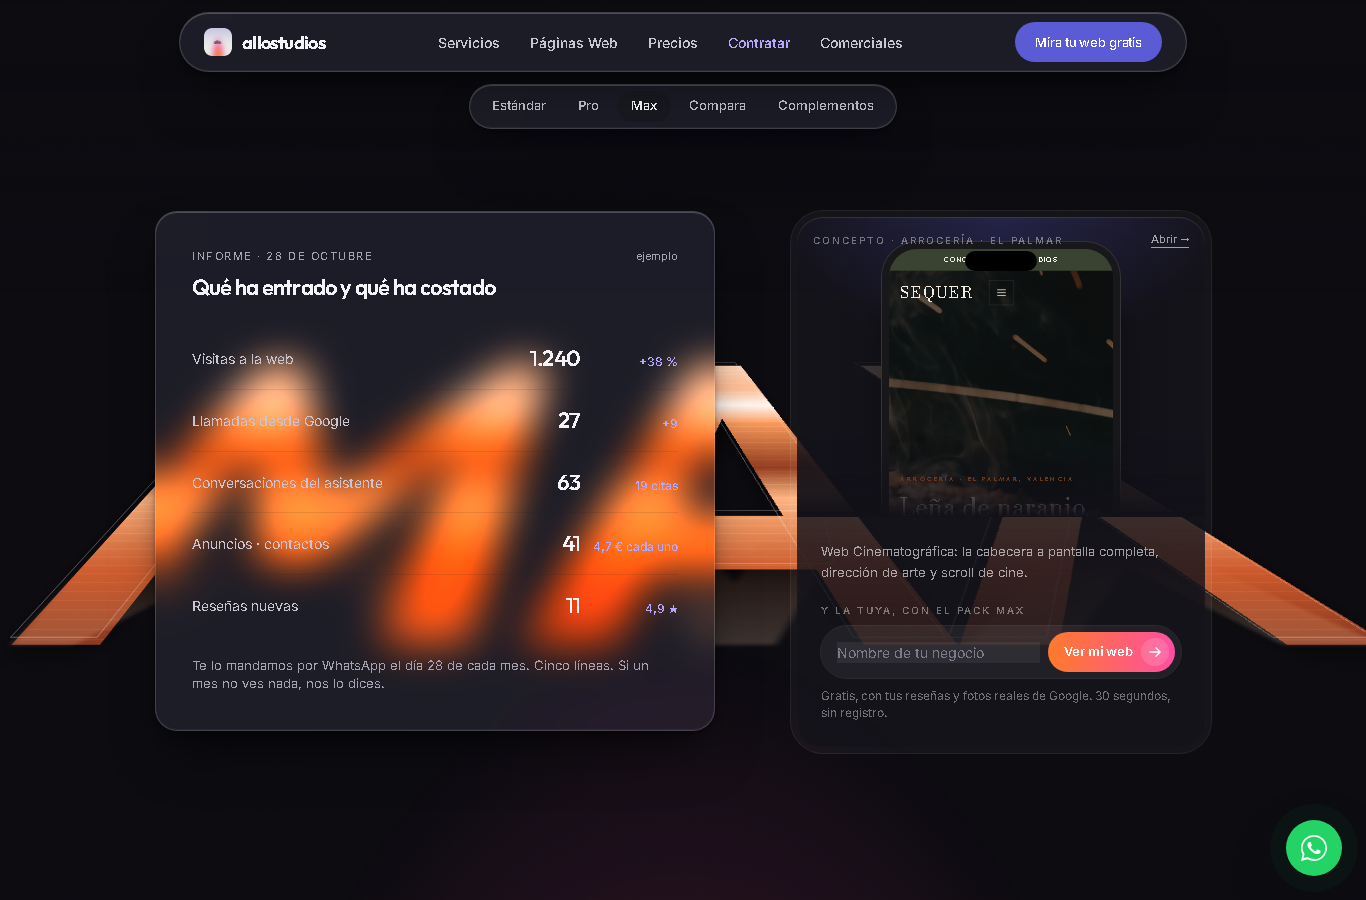
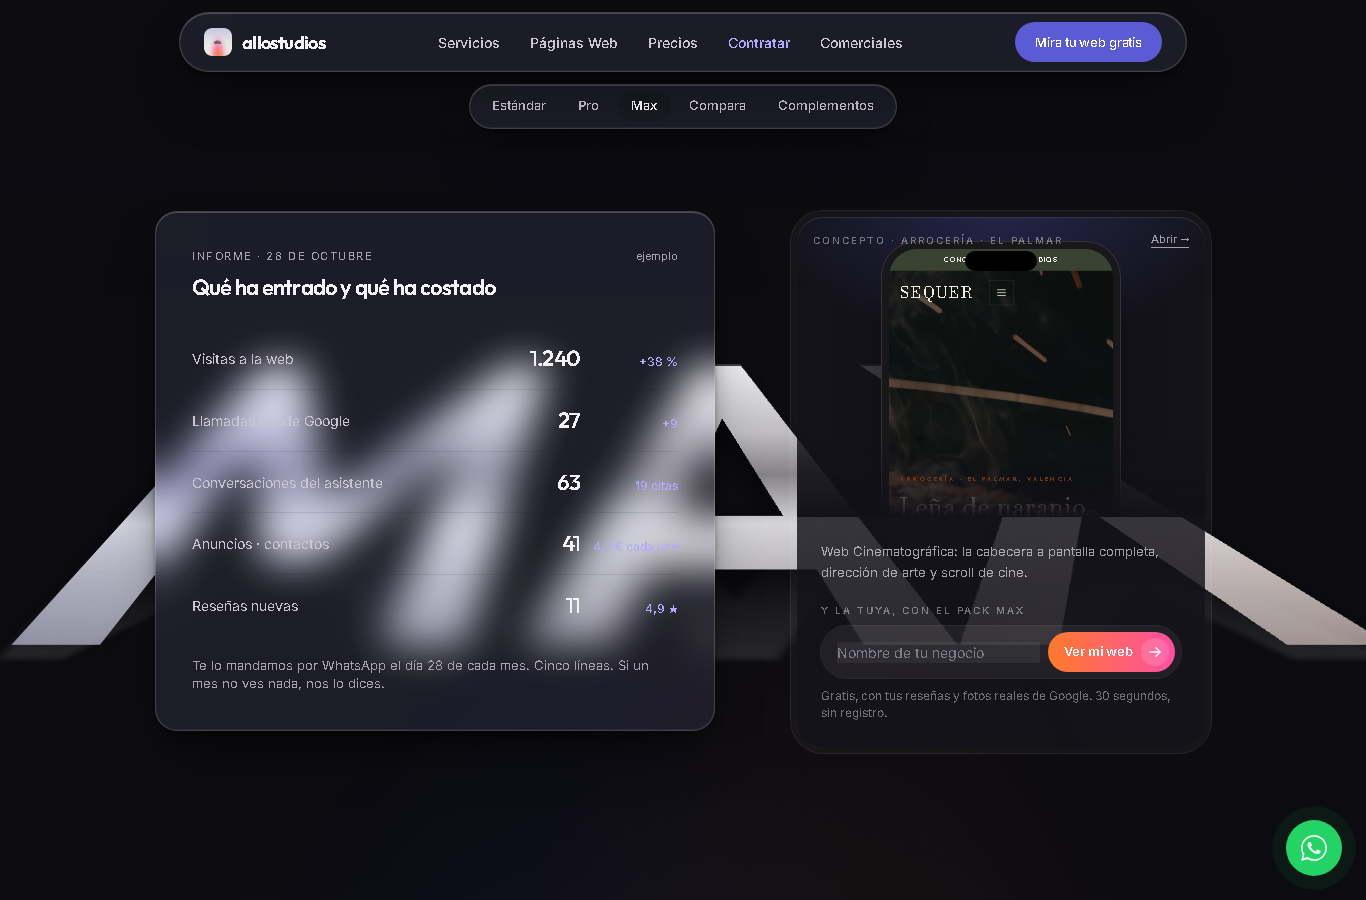
MAX en titanio pulido (diseño Apple): monocromo, arista de luz, brillo lento, reflejo de la marca en la superficie y en el suelo; misma animación título → experiencia

Changed region(s): [[0.0, 0.3733, 0.5842, 0.7467], [0.8609, 0.5911, 1.0, 0.7467], [0.5227, 0.7156, 0.5842, 0.7467]]

diff --git a/apps/web/src/components/home2/Fondos.tsx b/apps/web/src/components/home2/Fondos.tsx
@@ -66,33 +66,34 @@ export function FondoMax({ progreso, palabra }: { progreso: MotionValue<number>;
   const giro = useTransform(progreso, [0.14, 0.24, 0.5], [0, 55, 4])
   const y = useTransform(progreso, [0.06, 0.16, 0.5, 0.95], ['0%', '0%', '-14%', '-24%'])
   const opacidad = useTransform(progreso, [0, 0.04, 0.3, 0.4, 1], [0, 1, 1, 0.22, 0.16])
-  const barridoY = useTransform(progreso, [0.16, 0.6], ['-10%', '110%'])
   const brillo = useTransform(progreso, [0.16, 0.9], ['120%', '-20%'])
-  const metal = {
-    background: 'linear-gradient(180deg, #FFF1E6 0%, #FFCFAE 18%, #FF9A5C 36%, #8E3A1F 50%, #FFB07A 58%, #C9542A 74%, #3A1610 100%)',
+  // Diseño «Apple»: titanio pulido, monocromo, con la luz de la marca solo como reflejo ambiental.
+  // Nada de cromo naranja ni líneas técnicas: superficie limpia, un brillo que la recorre y un reflejo suave.
+  const titanio = {
+    background: 'linear-gradient(180deg, #FFFFFF 0%, #E9E9EC 18%, #B9B9BF 40%, #7C7C83 52%, #D2D2D7 64%, #9A9AA1 82%, #4E4E55 100%)',
     WebkitBackgroundClip: 'text', color: 'transparent',
   } as const
   return (
-    <div className="absolute inset-0 pointer-events-none overflow-clip" aria-hidden style={{ background: 'radial-gradient(120% 70% at 50% 100%, #2a0f0a 0%, #120b0e 55%, #0b0b10 100%)' }}>
-      {/* luz volumétrica de fondo */}
-      <motion.div animate={{ opacity: [0.45, 0.8, 0.45] }} transition={{ duration: 7, repeat: Infinity, ease: 'easeInOut' }}
-        className="absolute inset-0" style={{ background: 'radial-gradient(55% 40% at 50% 60%, rgba(255,122,42,.45), rgba(255,79,163,.12) 55%, transparent 75%)' }} />
+    <div className="absolute inset-0 pointer-events-none overflow-clip" aria-hidden style={{ background: 'radial-gradient(120% 70% at 50% 100%, #15131b 0%, #0c0c11 55%, #0b0b10 100%)' }}>
+      {/* luz ambiental de la marca, muy tenue, que respira */}
+      <motion.div animate={{ opacity: [0.35, 0.6, 0.35] }} transition={{ duration: 9, repeat: Infinity, ease: 'easeInOut' }}
+        className="absolute inset-0" style={{ background: 'radial-gradient(45% 32% at 42% 52%, rgba(91,91,214,.35), transparent 70%), radial-gradient(40% 30% at 62% 48%, rgba(255,122,42,.22), transparent 70%)' }} />
       {/* escenario con perspectiva: pegado a la pantalla mientras dura el capítulo */}
       <div className="sticky top-0 h-screen w-full flex items-start justify-center overflow-hidden" style={{ perspective: '760px' }}>
         <motion.div style={{ scale: escala, rotateX: giro, y, opacity: opacidad, transformOrigin: '50% 0%' }}
-          className="relative mt-[38vh] md:mt-[40vh] font-display font-semibold leading-none tracking-[-0.07em] select-none whitespace-nowrap">
-          {/* sombra proyectada */}
-          <span className="absolute inset-0 block text-[46vw] md:text-[40vw]" style={{ color: 'rgba(0,0,0,.55)', transform: 'translateY(2.5%) scaleY(.96)', filter: 'blur(14px)' }}>{palabra}</span>
-          {/* metal */}
-          <span className="relative block text-[46vw] md:text-[40vw]" style={metal}>{palabra}</span>
-          {/* brillo que recorre las letras */}
-          <motion.span className="absolute inset-0 block text-[46vw] md:text-[40vw]" style={{ backgroundImage: 'linear-gradient(100deg, transparent 40%, rgba(255,255,255,.8) 50%, transparent 60%)', backgroundSize: '300% 100%', backgroundPositionX: brillo, backgroundRepeat: 'no-repeat', WebkitBackgroundClip: 'text', color: 'transparent', mixBlendMode: 'screen' }}>{palabra}</motion.span>
-          {/* tecnológico: contorno fino desplazado (como un plano de CAD) y líneas de barrido sobre el metal */}
-          <span className="absolute inset-0 block text-[46vw] md:text-[40vw]" style={{ color: 'transparent', WebkitTextStroke: '1px rgba(255,255,255,.28)', transform: 'translate(-.6%, -1.2%)' }}>{palabra}</span>
-          <span className="absolute inset-0 block text-[46vw] md:text-[40vw]" style={{ backgroundImage: 'repeating-linear-gradient(180deg, rgba(255,255,255,.14) 0 1px, transparent 1px 9px)', WebkitBackgroundClip: 'text', color: 'transparent', mixBlendMode: 'overlay' }}>{palabra}</span>
-          <motion.span className="absolute inset-0 block text-[46vw] md:text-[40vw]" style={{ backgroundImage: 'linear-gradient(180deg, transparent 0%, rgba(255,255,255,.9) 50%, transparent 100%)', backgroundSize: '100% 12%', backgroundRepeat: 'no-repeat', backgroundPositionY: barridoY, WebkitBackgroundClip: 'text', color: 'transparent', mixBlendMode: 'screen' }}>{palabra}</motion.span>
+          className="relative mt-[38vh] md:mt-[40vh] font-display font-semibold leading-none tracking-[-0.075em] select-none whitespace-nowrap">
+          {/* sombra de contacto, suave */}
+          <span className="absolute inset-0 block text-[46vw] md:text-[40vw]" style={{ color: 'rgba(0,0,0,.6)', transform: 'translateY(3%) scaleY(.94)', filter: 'blur(18px)' }}>{palabra}</span>
+          {/* titanio */}
+          <span className="relative block text-[46vw] md:text-[40vw]" style={titanio}>{palabra}</span>
+          {/* arista superior: una línea de luz finísima en el borde de las letras */}
+          <span className="absolute inset-0 block text-[46vw] md:text-[40vw]" style={{ color: 'transparent', WebkitTextStroke: '1px rgba(255,255,255,.35)', transform: 'translateY(-.35%)', WebkitMaskImage: 'linear-gradient(180deg, #000 0%, transparent 35%)', maskImage: 'linear-gradient(180deg, #000 0%, transparent 35%)' }}>{palabra}</span>
+          {/* brillo que recorre las letras, lento y blanco */}
+          <motion.span className="absolute inset-0 block text-[46vw] md:text-[40vw]" style={{ backgroundImage: 'linear-gradient(100deg, transparent 42%, rgba(255,255,255,.55) 50%, transparent 58%)', backgroundSize: '300% 100%', backgroundPositionX: brillo, backgroundRepeat: 'no-repeat', WebkitBackgroundClip: 'text', color: 'transparent', mixBlendMode: 'screen' }}>{palabra}</motion.span>
+          {/* reflejo de la marca en la superficie (violeta → naranja), apenas */}
+          <span className="absolute inset-0 block text-[46vw] md:text-[40vw]" style={{ background: 'linear-gradient(100deg, rgba(91,91,214,.35) 0%, transparent 45%, rgba(255,122,42,.28) 100%)', WebkitBackgroundClip: 'text', color: 'transparent', mixBlendMode: 'soft-light' }}>{palabra}</span>
           {/* reflejo en el suelo */}
-          <span className="absolute left-0 right-0 top-full block text-[46vw] md:text-[40vw]" style={{ ...metal, transform: 'scaleY(-.55) translateY(8%)', transformOrigin: '50% 0%', opacity: .28, filter: 'blur(3px)', WebkitMaskImage: 'linear-gradient(180deg, rgba(0,0,0,.9), transparent 60%)', maskImage: 'linear-gradient(180deg, rgba(0,0,0,.9), transparent 60%)' }}>{palabra}</span>
+          <span className="absolute left-0 right-0 top-full block text-[46vw] md:text-[40vw]" style={{ ...titanio, transform: 'scaleY(-.5) translateY(6%)', transformOrigin: '50% 0%', opacity: .18, filter: 'blur(4px)', WebkitMaskImage: 'linear-gradient(180deg, rgba(0,0,0,.9), transparent 55%)', maskImage: 'linear-gradient(180deg, rgba(0,0,0,.9), transparent 55%)' }}>{palabra}</span>
         </motion.div>
       </div>
       {/* suelo: línea de horizonte y niebla */}
